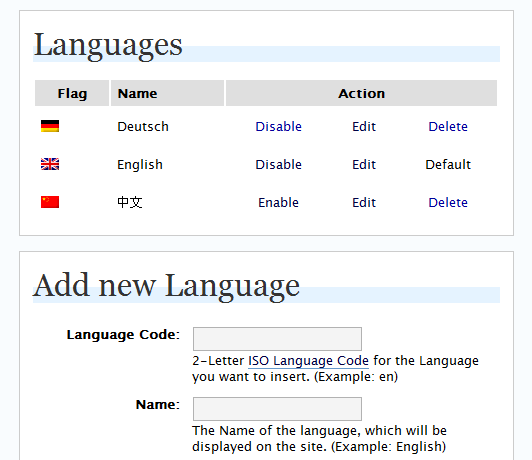
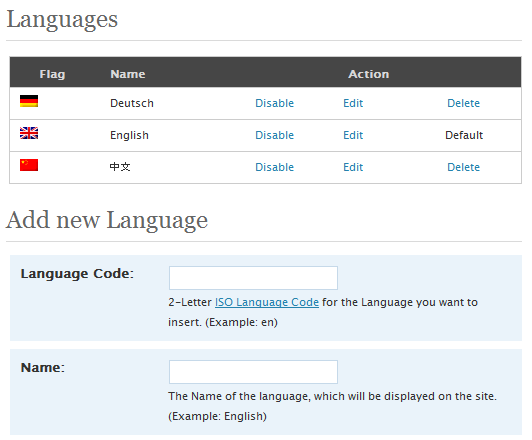
fixed few bugs, support for wp 2.5.1 should be working.
git-svn-id: http://plugins.svn.wordpress.org/qtranslate/trunk@46626 b8457f37-d9ea-0310-8a92-e5e31aec5664

diff --git a/qtranslate_wphacks.php b/qtranslate_wphacks.php
@@ -36,6 +36,38 @@ function qtrans_modifyCategoryForm($category) {
     echo "// ]]>\n</script>\n";
 }
 
+function qtrans_modifyTagForm($tag) {
+    global $q_config;
+    echo "<script type=\"text/javascript\">\n// <![CDATA[\r\n";
+    // include needed js functions
+    echo $q_config['js']['qtrans_integrate'];
+    echo $q_config['js']['qtrans_use'];
+    echo $q_config['js']['qtrans_integrate_tag'];
+    // create input fields for each language
+    foreach($q_config['enabled_languages'] as $language) {
+        echo qtrans_insertTagInput($language);
+    }
+    // hide real category text
+    echo "document.getElementById('name').parentNode.parentNode.style.display='none';\n";
+    echo "// ]]>\n</script>\n";
+}
+
+function qtrans_modifyLinkCategoryForm($category) {
+    global $q_config;
+    echo "<script type=\"text/javascript\">\n// <![CDATA[\r\n";
+    // include needed js functions
+    echo $q_config['js']['qtrans_integrate'];
+    echo $q_config['js']['qtrans_use'];
+    echo $q_config['js']['qtrans_integrate_link_category'];
+    // create input fields for each language
+    foreach($q_config['enabled_languages'] as $language) {
+        echo qtrans_insertLinkCategoryInput($language);
+    }
+    // hide real category text
+    echo "document.getElementById('name').parentNode.parentNode.style.display='none';\n";
+    echo "// ]]>\n</script>\n";
+}
+
 // Modifys TinyMCE to edit multilingual content
 function qtrans_modifyRichEditor($old_content) {
     global $q_config;
@@ -134,7 +166,7 @@ function qtrans_insertCategoryInput($language){
         var tr = document.createElement('tr');
         var th = document.createElement('th');
         var ll = document.createElement('label');
-        var l = document.createTextNode('".$q_config['language_name'][$language]." ".__("Category name:")."');
+        var l = document.createTextNode('".$q_config['language_name'][$language]." ".__("Category name")."');
         var td = document.createElement('td');
         var i = document.createElement('input');
         var ins = document.getElementById('cat_name').parentNode.parentNode;
@@ -142,6 +174,62 @@ function qtrans_insertCategoryInput($language){
         i.id = i.name = ll.htmlFor ='qtrans_category_".$language."';
         i.value = qtrans_use('".$language."', document.getElementById('cat_name').value);
         i.onchange = qtrans_integrate_category;
+        td.width = '67%';
+        th.width = '33%';
+        th.scope = 'row';
+        th.vAlign = 'top';
+        ll.appendChild(l);
+        th.appendChild(ll);
+        tr.appendChild(th);
+        td.appendChild(i);
+        tr.appendChild(td);
+        ins.parentNode.insertBefore(tr,ins);
+        ";
+    return $html;    
+}
+
+function qtrans_insertTagInput($language){
+    global $q_config;
+    $html ="
+        var tr = document.createElement('tr');
+        var th = document.createElement('th');
+        var ll = document.createElement('label');
+        var l = document.createTextNode('".$q_config['language_name'][$language]." ".__("Tag name")."');
+        var td = document.createElement('td');
+        var i = document.createElement('input');
+        var ins = document.getElementById('name').parentNode.parentNode;
+        i.type = 'text';
+        i.id = i.name = ll.htmlFor ='qtrans_tag_".$language."';
+        i.value = qtrans_use('".$language."', document.getElementById('name').value);
+        i.onchange = qtrans_integrate_tag;
+        td.width = '67%';
+        th.width = '33%';
+        th.scope = 'row';
+        th.vAlign = 'top';
+        ll.appendChild(l);
+        th.appendChild(ll);
+        tr.appendChild(th);
+        td.appendChild(i);
+        tr.appendChild(td);
+        ins.parentNode.insertBefore(tr,ins);
+        ";
+    return $html;    
+}
+
+function qtrans_insertLinkCategoryInput($language){
+    global $q_config;
+    $html ="
+        var tr = document.createElement('tr');
+        var th = document.createElement('th');
+        var ll = document.createElement('label');
+        var l = document.createTextNode('".$q_config['language_name'][$language]." ".__("Category name")."');
+        var td = document.createElement('td');
+        var i = document.createElement('input');
+        var ins = document.getElementById('name').parentNode.parentNode;
+        i.type = 'text';
+        i.id = i.name = ll.htmlFor ='qtrans_link_category_".$language."';
+        i.value = qtrans_use('".$language."', document.getElementById('name').value);
+        i.onchange = qtrans_integrate_link_category;
         td.width = '67%';
         th.width = '33%';
         th.scope = 'row';

diff --git a/qtranslate_configuration.php b/qtranslate_configuration.php
@@ -28,7 +28,7 @@ function qtranslate_language_form($lang = '', $language_code = '', $language_nam
     global $q_config;
 ?>
 <input type="hidden" name="original_lang" value="<?php echo $original_lang; ?>" />
-<table class="editform" width="100%" cellspacing="2" cellpadding="5">
+<table class="form-table" width="100%" cellspacing="2" cellpadding="5">
     <tr valign="top">
         <th width="33%">
             <label for="language_code"><?php _e('Language Code:'); ?></label>
@@ -347,10 +347,10 @@ function qtranslate_conf() {
 <div class="wrap">
 <h2><?php _e('qTranslate Configuration'); ?></h2>
 <form action="<?php echo $clean_uri;?>" method="post" id="qtranslate-conf">
-<p><?php printf(__('For help on how to configure qTranslate correctly, visit the <a href="%1$s">qTranslate Website</a>.'), 'http://www.qianqin.de/qtranslate/'); ?></p>
-    <table class="optiontable">
+<div class="tablenav"><?php printf(__('For help on how to configure qTranslate correctly, visit the <a href="%1$s">qTranslate Website</a>.'), 'http://www.qianqin.de/qtranslate/'); ?></div>
+    <table class="form-table">
         <tr valign="top">
-            <th scope="row"><?php _e('Flag Image Path:');?></th>
+            <th scope="row"><?php _e('Flag Image Path');?></th>
             <td>
                 <input type="text" name="flag_location" id="flag_location" value="<?php echo $q_config['flag_location']; ?>" style="width:95%"/>
                 <br/>
@@ -358,7 +358,7 @@ function qtranslate_conf() {
             </td>
         </tr>
         <tr valign="top">
-            <th scope="row"><?php _e('Ignore Links:');?></th>
+            <th scope="row"><?php _e('Ignore Links');?></th>
             <td>
                 <input type="text" name="ignore_file_types" id="ignore_file_types" value="<?php echo $q_config['ignore_file_types']; ?>" style="width:95%"/>
                 <br/>
@@ -366,7 +366,7 @@ function qtranslate_conf() {
             </td>
         </tr>
         <tr valign="top">
-            <th scope="row"><?php _e('Use strftime:');?></th>
+            <th scope="row"><?php _e('Use strftime');?></th>
             <td>
                 <label for="use_strftime"><input type="checkbox" name="use_strftime" id="use_strftime" value="1"<?php echo ($q_config['use_strftime'])?' checked="checked"':''; ?>/> Use strftime instead of date</label>
                 <br/>
@@ -375,10 +375,12 @@ function qtranslate_conf() {
         </tr>
     </table>
 <p class="submit"><input type="submit" name="submit" value="<?php _e('Update options &raquo;'); ?>" /></p>
+<br class="clear" />
 </form>
 </div>
 <div class="wrap">
 <h2><?php _e('Languages'); ?></h2>
+<br class="clear"/>
 <table class="widefat">
     <thead>
         <tr>
@@ -397,6 +399,7 @@ function qtranslate_conf() {
     </tr>
 <?php }} ?>
 </table>
+<br class="clear" />
 </div>
 <div class="wrap">
 <h2><?php _e('Add new Language'); ?></h2>

diff --git a/qtranslate_hooks.php b/qtranslate_hooks.php
@@ -83,6 +83,8 @@ function qtrans_adminHeader() {
 // Hooks (Actions)
 add_action('wp_head',                       'qtrans_header');
 add_action('edit_category_form',            'qtrans_modifyCategoryForm');
+add_action('edit_tag_form',                 'qtrans_modifyTagForm');
+add_action('edit_link_category_form',       'qtrans_modifyLinkCategoryForm');
 add_action('plugins_loaded',                'qtrans_widget_init'); 
 add_action('admin_menu',                    'qtranslate_config_page');
 add_action('admin_print_scripts',           'qtrans_modifyUpload',99);
@@ -104,7 +106,12 @@ add_filter('get_the_time',                  'qtrans_timeFromPostForCurrentLangua
 add_filter('the_time',                      'qtrans_timeFromPostForCurrentLanguage',0,2);
 add_filter('the_date',                      'qtrans_dateFromPostForCurrentLanguage',0,4);
 add_filter('locale',                        'qtrans_localeForCurrentLanguage',99);
+add_filter('get_the_tags',                  'qtrans_convertGetTheTags',0);
+add_filter('get_tags',                      'qtrans_convertGetTheTags',0);
+add_filter('tag_rows',                      'qtrans_useCurrentLanguageIfNotFoundUseDefaultLanguage',0);
+add_filter('cat_rows',                      'qtrans_useCurrentLanguageIfNotFoundUseDefaultLanguage',0);
 add_filter('list_cats',                     'qtrans_useCurrentLanguageIfNotFoundUseDefaultLanguage',0);
+add_filter('the_tags',                      'qtrans_useCurrentLanguageIfNotFoundUseDefaultLanguage',0);
 add_filter('wp_list_categories',            'qtrans_useCurrentLanguageIfNotFoundUseDefaultLanguage',0);
 add_filter('wp_dropdown_cats',              'qtrans_useCurrentLanguageIfNotFoundUseDefaultLanguage',0);
 add_filter('wp_title',                      'qtrans_useCurrentLanguageIfNotFoundUseDefaultLanguage',0);
@@ -125,6 +132,7 @@ add_filter('category_description',          'qtrans_useCurrentLanguageIfNotFound
 add_filter('bloginfo_rss',                  'qtrans_useCurrentLanguageIfNotFoundUseDefaultLanguage',0);
 add_filter('the_category_rss',              'qtrans_useCurrentLanguageIfNotFoundUseDefaultLanguage',0);
 add_filter('category_name',                 'qtrans_useCurrentLanguageIfNotFoundUseDefaultLanguage',0);
+add_filter('wp_tag_cloud',                  'qtrans_useCurrentLanguageIfNotFoundUseDefaultLanguage',0);
 add_filter('wp_generate_tag_cloud',         'qtrans_useCurrentLanguageIfNotFoundUseDefaultLanguage',0);
 add_filter('pre_option_rss_language',       'qtrans_getLanguage',0);
 

diff --git a/qtranslate_javascript.php b/qtranslate_javascript.php
@@ -134,6 +134,32 @@ function qtrans_initJS() {
         }
         ";
         
+    $q_config['js']['qtrans_integrate_tag'] = "
+        function qtrans_integrate_tag() {
+            var t = document.getElementById('name');
+        ";
+    foreach($q_config['enabled_languages'] as $language)
+        $q_config['js']['qtrans_integrate_tag'].= "
+            if(document.getElementById('qtrans_tag_".$language."').value!='')
+                t.value = qtrans_integrate('".$language."',document.getElementById('qtrans_tag_".$language."').value,t.value);
+            ";
+    $q_config['js']['qtrans_integrate_tag'].= "
+        }
+        ";
+        
+    $q_config['js']['qtrans_integrate_link_category'] = "
+        function qtrans_integrate_link_category() {
+            var t = document.getElementById('name');
+        ";
+    foreach($q_config['enabled_languages'] as $language)
+        $q_config['js']['qtrans_integrate_link_category'].= "
+            if(document.getElementById('qtrans_link_category_".$language."').value!='')
+                t.value = qtrans_integrate('".$language."',document.getElementById('qtrans_link_category_".$language."').value,t.value);
+            ";
+    $q_config['js']['qtrans_integrate_link_category'].= "
+        }
+        ";
+        
     $q_config['js']['qtrans_integrate_title'] = "
         function qtrans_integrate_title() {
             var t = document.getElementById('title');

diff --git a/qtranslate_core.php b/qtranslate_core.php
@@ -281,6 +281,13 @@ function qtrans_timeFromPostForCurrentLanguage($old_date, $format = '', $gmt = f
 
 /* END TIME FUNCTIONS */
 
+function qtrans_convertGetTheTags($tags) {
+    if(empty($tags)) return $tags;
+    foreach($tags as $id => $tag) {
+        $tags[$id]->name = qtrans_useCurrentLanguageIfNotFoundUseDefaultLanguage($tag->name);
+    }
+    return $tags;
+}
 
 function qtrans_convertBlogInfoURL($url, $what) {
     if($what=='stylesheet_url') return $url;
